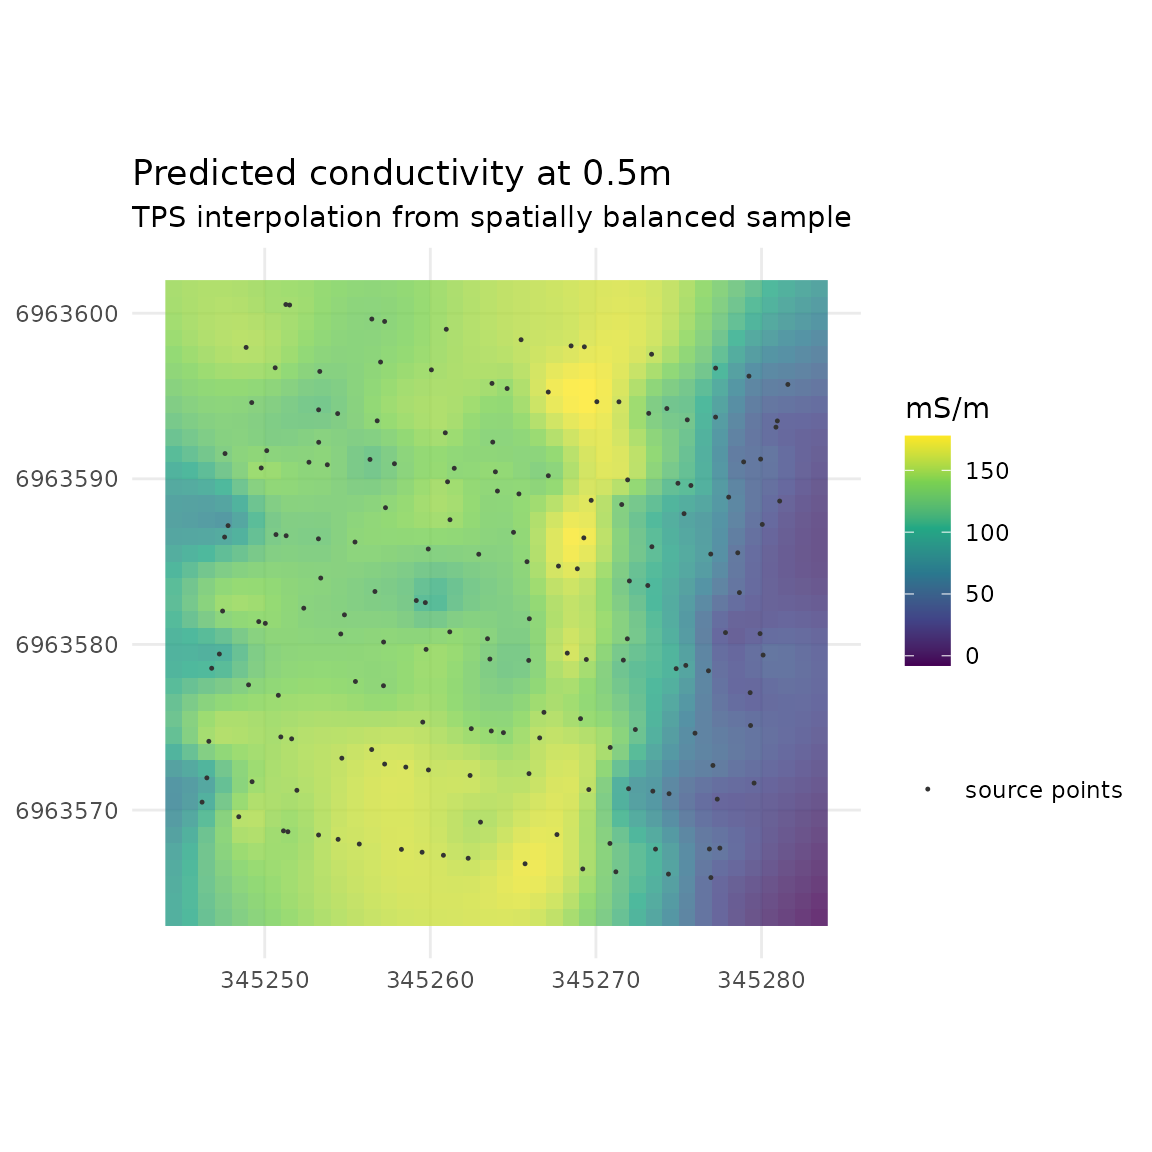
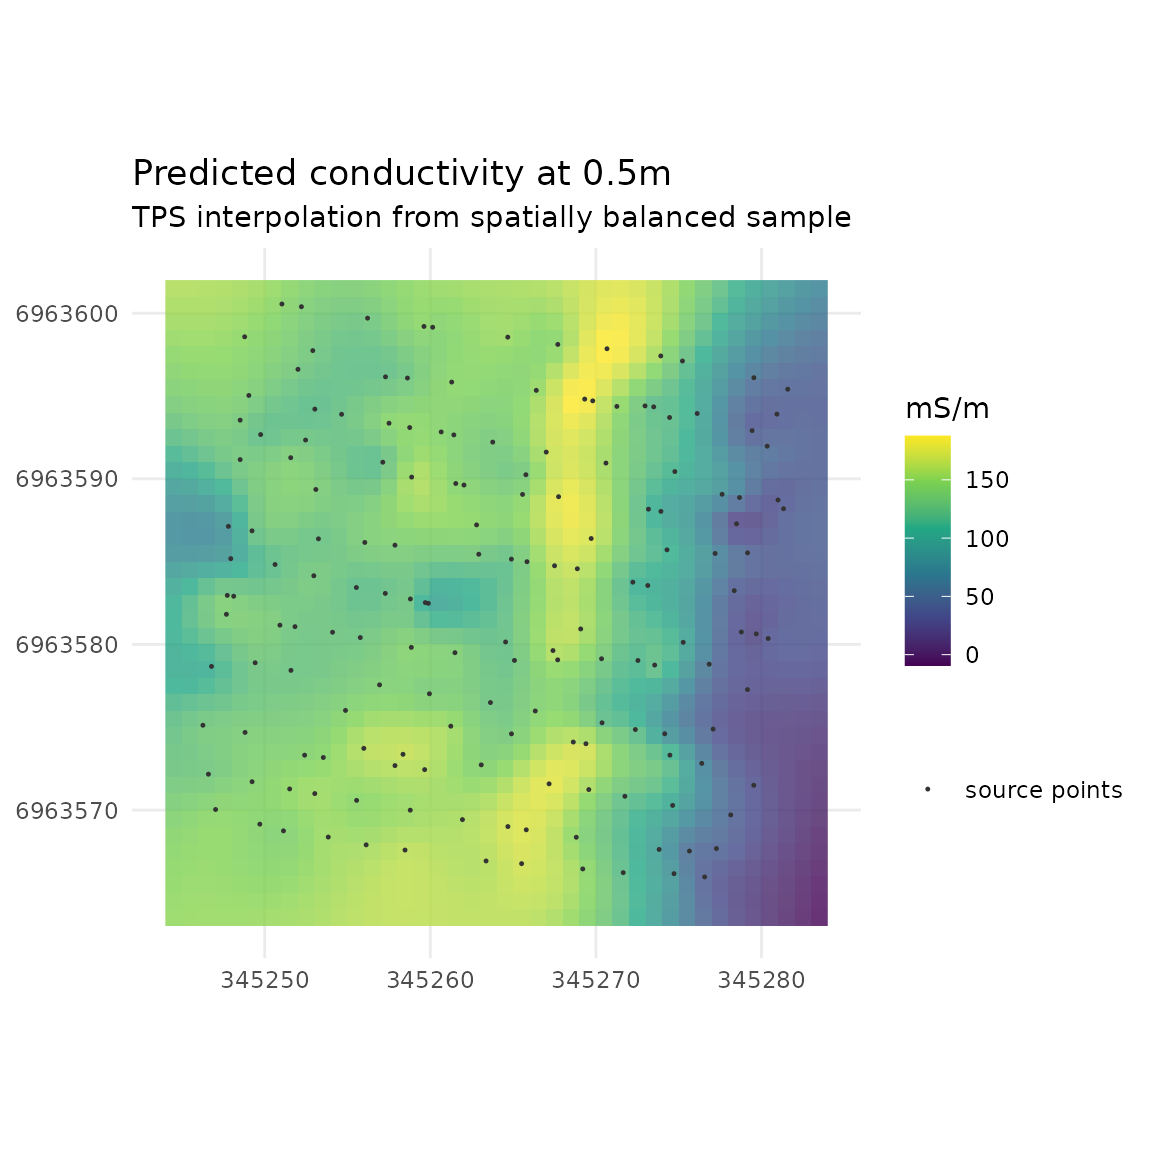
Deploying to gh-pages from @ obrl-soil/em38@d0ab59bbfafb9b1228eebceaa3929ed0c8d4fb80 🚀

diff --git a/articles/Using_em38.html b/articles/Using_em38.html
@@ -333,7 +333,7 @@ previously:</p>
 <span><span class="co">#&gt; Warning: </span></span>
 <span><span class="co">#&gt; Grid searches over lambda (nugget and sill variances) with  minima at the endpoints: </span></span>
 <span><span class="co">#&gt;   (GCV) Generalized Cross-Validation </span></span>
-<span><span class="co">#&gt;    minimum at  right endpoint  lambda  =  5.127778e-06 (eff. df= 158.65 )</span></span>
+<span><span class="co">#&gt;    minimum at  right endpoint  lambda  =  5.43543e-06 (eff. df= 158.65 )</span></span>
 <span></span>
 <span><span class="va">cond_05_tps_b</span> <span class="op">&lt;-</span> <span class="fu">terra</span><span class="fu">::</span><span class="fu"><a href="https://rdrr.io/pkg/terra/man/interpolate.html" class="external-link">interpolate</a></span><span class="op">(</span><span class="va">grid_1m</span>, <span class="va">sl1_tps_b</span><span class="op">)</span></span>
 <span></span>
